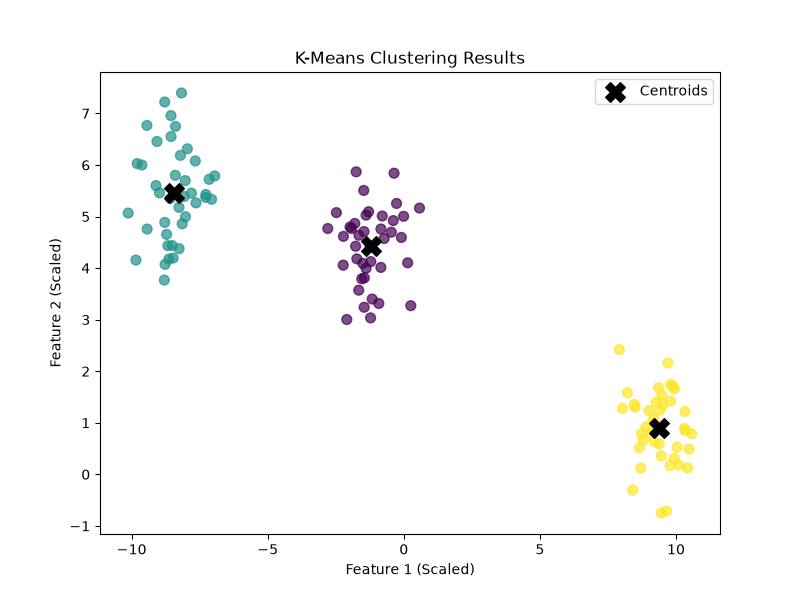
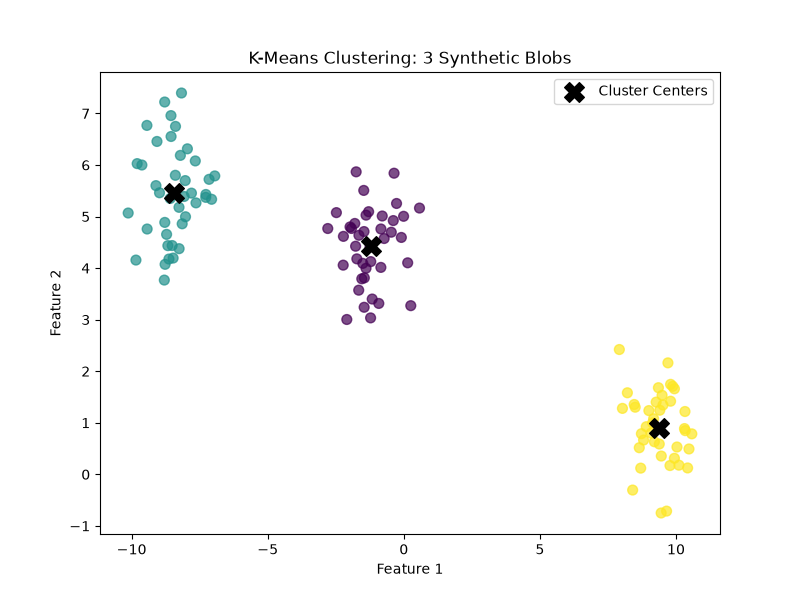
edit based on feedback

Changed region(s): [[0.3125, 0.09, 0.875, 0.18], [0.0625, 0.39, 0.0938, 0.6], [0.4375, 0.93, 0.5938, 0.96]]

diff --git a/assignments_02/warmup_02.py b/assignments_02/warmup_02.py
@@ -19,43 +19,46 @@ model.fit(years, salary)
 predict_4 = model.predict(experience_4)
 predict_8 = model.predict(experience_8)
 
-print(f"Slope {model.coef_[0]}") # one number for each column
-print(f"Intercept {model.intercept_}")
-print(f"Prediction for 4 years: {predict_4[0]}") #one number for each row
-print(f"Prediction for 8 years: {predict_8[0]}")
+print(f"Slope: {model.coef_[0]:.2f}")
+print(f"Intercept: {model.intercept_:.2f}")
+print(f"Prediction for 4 years experience: {predict_4[0]:.2f}")
+print(f"Prediction for 8 years experience: {predict_8[0]:.2f}")
 
 
 # --- Q2 ----
 x = np.array([10, 20, 30, 40, 50])
 print(f"Shape: {x.shape}")
-print(f"Reshape in 2D: {x.reshape(-1, 1)}")
+print(f"Reshape in 2D: {x.reshape(-1, 1).shape}")
 
 # sklearn needs X to be 2D because a 1D array is ambiguous —
 # it doesn't say whether the numbers are 5 samples with 1 feature each,
 # or 1 sample with 5 features. The 2D shape (rows=samples, cols=features)
 # removes that ambiguity.
 
-# --- Q3 ----
+# --- Q3 ---
 
 X_clusters, _ = make_blobs(n_samples=120, centers=3, cluster_std=0.8, random_state=7)
 
-#Unsupervised - seeing 1 array and there is no right answer, nobody teaches the model. .fit(X) <- 1 argument
+# Unsupervised - seeing 1 array with no right answer, nobody teaches the model. .fit(X) <- 1 argument
 kmeans = KMeans(n_clusters=3, random_state=42)
 cluster_labels = kmeans.fit_predict(X_clusters)
 centroids = kmeans.cluster_centers_
-print(f"Cluster center: {centroids}")
-labels = kmeans.labels_
-cluster_counts = np.bincount(labels)
-for cluster_id, count in enumerate(cluster_counts):
-    print(f"Cluster {cluster_id}: {count} data points")
 
+print("Cluster centers:")
+for i, center in enumerate(centroids):
+    print(f"  Cluster {i}: ({center[0]:.2f}, {center[1]:.2f})")
+
+cluster_counts = np.bincount(cluster_labels)
+print("\nPoints per cluster:")
+for cluster_id, count in enumerate(cluster_counts):
+    print(f"  Cluster {cluster_id}: {count} data points")
 
 plt.figure(figsize=(8, 6))
 plt.scatter(X_clusters[:, 0], X_clusters[:, 1], c=cluster_labels, s=50, cmap='viridis', alpha=0.7)
-plt.scatter(centroids[:, 0], centroids[:, 1], c='black', s=200, marker='X', label='Centroids')
-plt.title('K-Means Clustering Results')
-plt.xlabel('Feature 1 (Scaled)')
-plt.ylabel('Feature 2 (Scaled)')
+plt.scatter(centroids[:, 0], centroids[:, 1], c='black', s=200, marker='X', label='Cluster Centers')
+plt.title('K-Means Clustering: 3 Synthetic Blobs')
+plt.xlabel('Feature 1')
+plt.ylabel('Feature 2')
 plt.legend()
 plt.savefig('outputs/kmeans_clusters.png')
 plt.close()